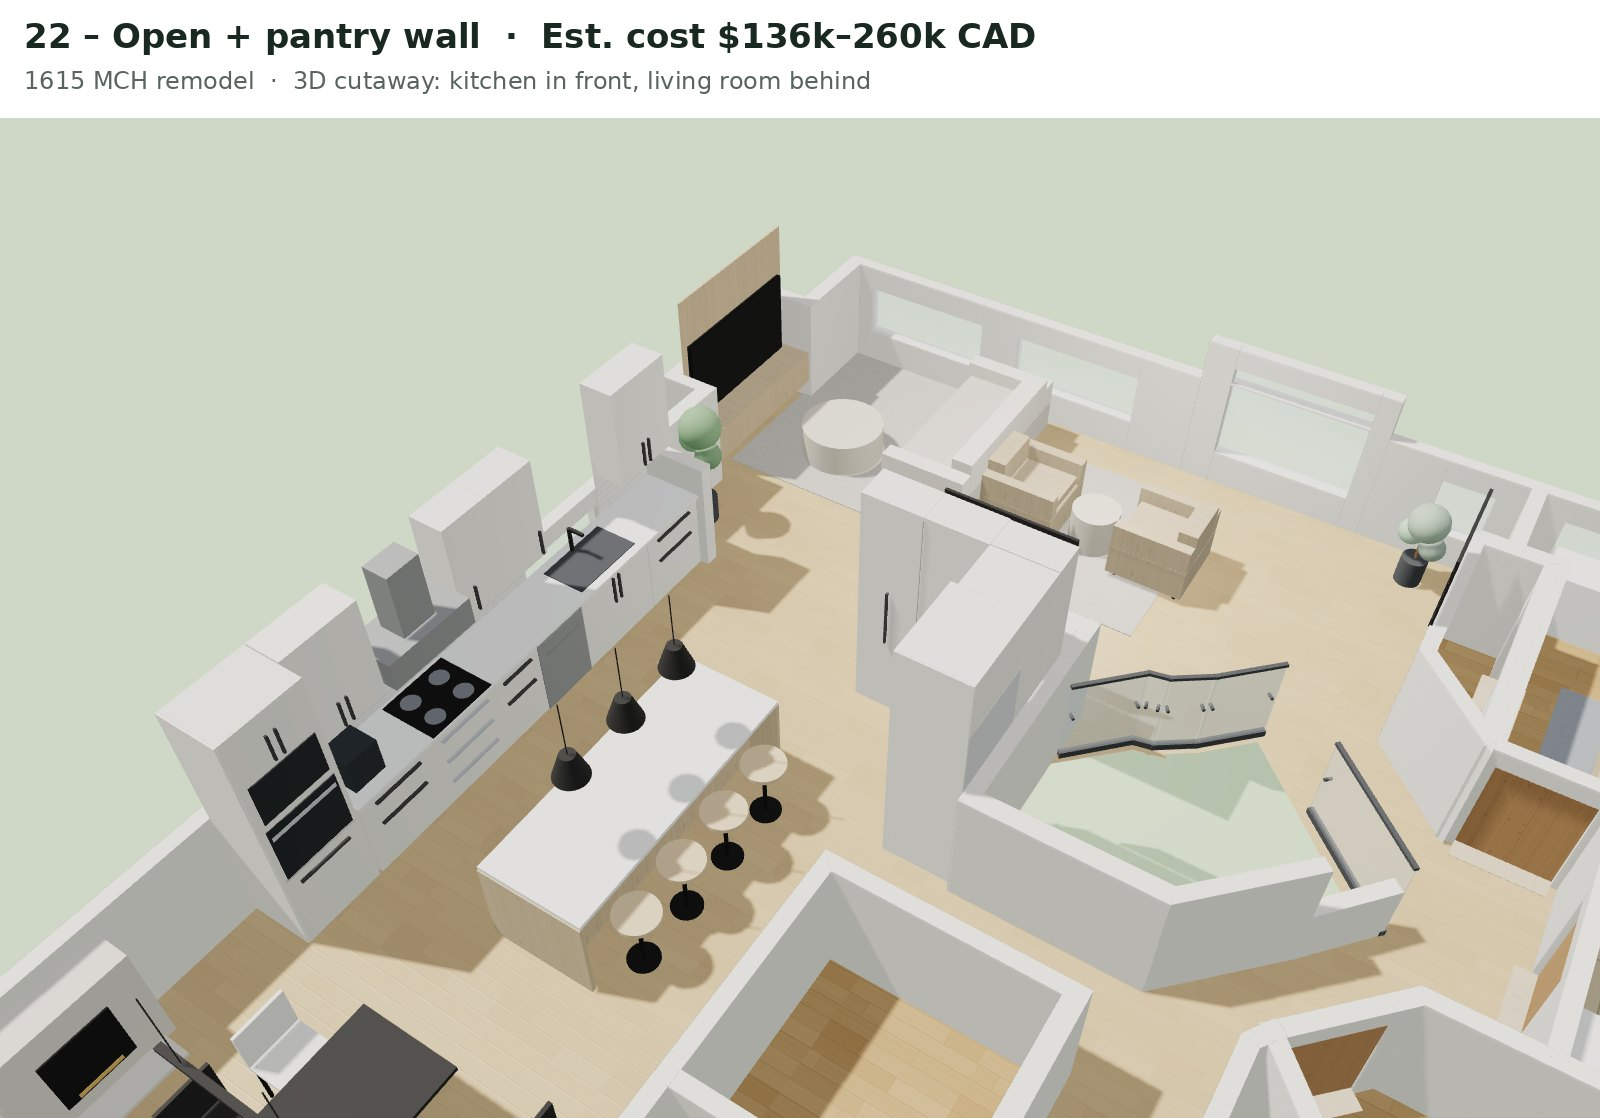
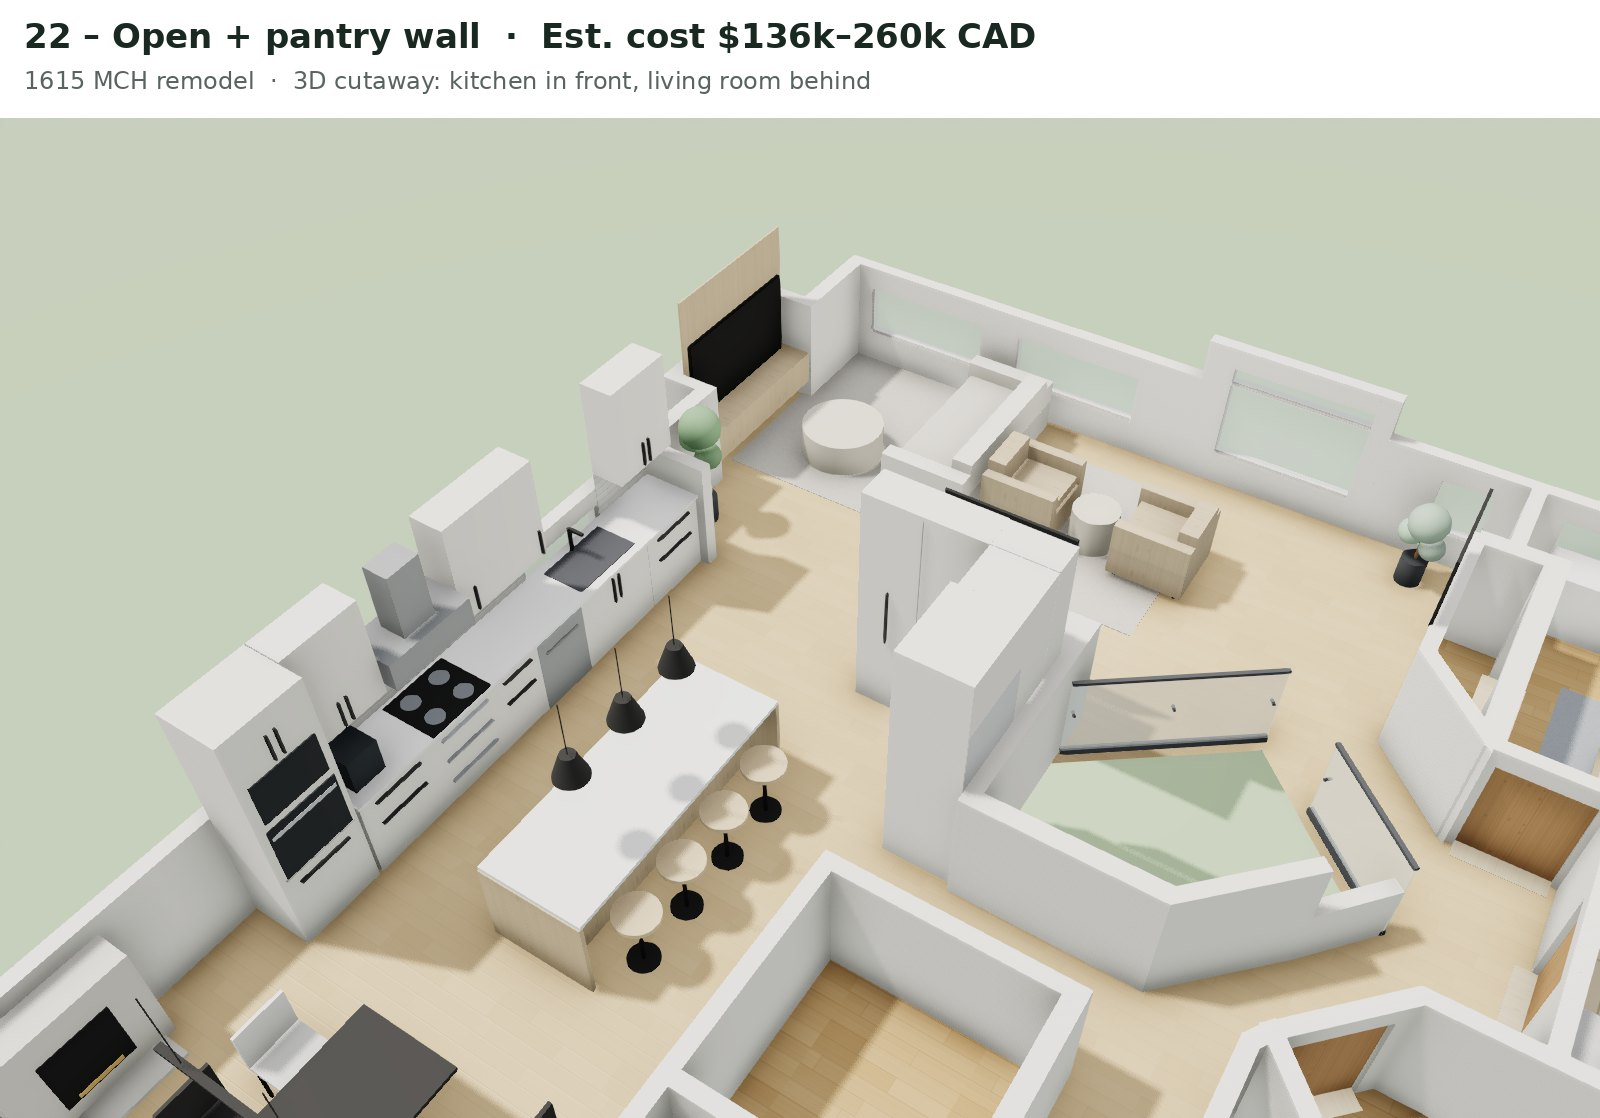
Concept 22: straighten stairwell edge and railing; white ceilings
Claude-Session: https://claude.ai/code/session_01FZodxpykm6DXmAniNRJHHf

diff --git a/js/data/concepts/v26.js b/js/data/concepts/v26.js
@@ -1,4 +1,4 @@
-// 22 · Open plan + pantry wall
+// 22 · Open + pantry wall
 DATA["v26"] = {
   "blinds": [
     ["level-e7276441-09e6-40e5-b0fe-e49e557499fc", 108.4, 222.3, 111.8, 3.1416, 10.8, 209.9],
@@ -491,11 +491,11 @@ DATA["v26"] = {
     ["level-e7276441-09e6-40e5-b0fe-e49e557499fc", [[13.8, 713.1], [13.8, 950.2], [215.9, 950.2], [215.9, 713.1]], 4.8, 115, 832, "Closet / Bathroom", []],
     ["level-e7276441-09e6-40e5-b0fe-e49e557499fc", [[13.8, 970.6], [13.8, 1296.1], [355.1, 1296.1], [355.1, 1210.4], [315.4, 1210.4], [315.4, 970.6]], 10.2, 170, 1137, "Bedroom", []],
     ["level-e7276441-09e6-40e5-b0fe-e49e557499fc", [[336.9, 980.7], [336.9, 1190.7], [387.8, 1190.7], [387.8, 1034.3]], 0.9, 361, 1098, "", []],
-    ["level-e7276441-09e6-40e5-b0fe-e49e557499fc", [[860.7, 910.8], [801.7, 968.6], [801.7, 992.9], [625.7, 992.9], [625.7, 968.5], [570.1, 912.5], [538.2, 935.1], [492.9, 980.5], [485.2, 972.8], [402.4, 1031.5], [402.4, 1210.4], [369.9, 1210.4], [369.9, 1296.1], [1115.0, 1296.1], [1115.0, 1190.7], [1157.6, 1190.7], [1157.6, 1012.7], [1115.0, 1012.7], [1115.0, 908.1]], 25.7, 781, 1122, "Living Room / Dining Room [oak]", []],
+    ["level-e7276441-09e6-40e5-b0fe-e49e557499fc", [[860.7, 910.8], [801.7, 968.6], [801.7, 992.9], [625.7, 992.9], [625.7, 968.5], [570, 908.8], [485.2, 972.8], [402.4, 1031.5], [402.4, 1210.4], [369.9, 1210.4], [369.9, 1296.1], [1115.0, 1296.1], [1115.0, 1190.7], [1157.6, 1190.7], [1157.6, 1012.7], [1115.0, 1012.7], [1115.0, 908.1]], 25.7, 781, 1122, "Living Room / Dining Room [oak]", []],
     ["level-e7276441-09e6-40e5-b0fe-e49e557499fc", [[337.5, 394.0], [337.5, 550.6], [391.5, 609.1], [391.5, 394.0]], 1.0, 366, 488, "Closet", []],
     ["level-e7276441-09e6-40e5-b0fe-e49e557499fc", [[403.4, 394.0], [499.4, 394.0], [500.0, 589.8], [646.6, 592.1], [646.2, 681.9], [479.2, 681.9], [343.1, 826.7], [485, 973], [402, 1032], [327.8, 951.3], [230.8, 950.2], [230.8, 713.1], [312.3, 713.1], [391.0, 634.4], [403.4, 613.3]], 9.3, 405, 717, "[oak]", []],
     ["level-e7276441-09e6-40e5-b0fe-e49e557499fc", [[706.0, -363.5], [1098.5, -363.5], [1098.5, -4.7], [708.1, -4.7]], 14.0, 903, -184, "", []],
-    ["level-e7276441-09e6-40e5-b0fe-e49e557499fc", [[588, 908], [570, 912], [626, 968], [626, 994], [802, 994], [802, 969], [862, 911], [843, 906], [639, 908], [636, 859]], 2.0, 710, 943, "[oak]", []],
+    ["level-e7276441-09e6-40e5-b0fe-e49e557499fc", [[570, 908.8], [626, 968], [626, 994], [802, 994], [802, 969], [862, 911], [843, 906], [639, 908], [636, 859]], 2.0, 710, 943, "[oak]", []],
     ["level-05858acb-0b22-4364-9c6b-23988ea317da", [[204, 829], [320, 829], [316, 841], [201, 841]], 0.1, 260, 835, "", []]
   ],
   "furn": [
@@ -578,13 +578,10 @@ DATA["v26"] = {
     ["level-05858acb-0b22-4364-9c6b-23988ea317da", 519.8, 885.3, 96.5, 172.7, 3.927, 134.6, 121.2, 3, "Staircase", -1],
     ["level-05858acb-0b22-4364-9c6b-23988ea317da", 526.4, -52.5, 132.1, 355.6, 1.5708, 0.0, 255.8, 3, "Straight staircase", -1],
     ["level-e7276441-09e6-40e5-b0fe-e49e557499fc", 384.0, 874.0, 125.6, 6.3, 0.7854, 0.0, 91.4, 0, "Rounded edges railing", 0],
-    ["level-e7276441-09e6-40e5-b0fe-e49e557499fc", 515.5, 957.5, 67.6, 6.3, -0.7854, 0.0, 91.4, 0, "Rounded edges railing", 0],
-    ["level-e7276441-09e6-40e5-b0fe-e49e557499fc", 554.0, 923.5, 43.4, 6.3, -0.6232, 0.0, 91.4, 0, "Rounded edges railing", 0],
-    ["level-e7276441-09e6-40e5-b0fe-e49e557499fc", 579.0, 910.0, 22.4, 6.3, -0.2187, 0.0, 91.4, 0, "Rounded edges railing", 0],
-    ["level-e7276441-09e6-40e5-b0fe-e49e557499fc", 612.0, 883.5, 72.6, 6.3, -0.7957, 0.0, 91.4, 0, "Rounded edges railing", 0],
     ["level-e7276441-09e6-40e5-b0fe-e49e557499fc", 1104.0, 200.9, 115.3, 35.2, 1.5761, 0.0, 105.1, 0, "Fireplace", 0],
     ["level-05858acb-0b22-4364-9c6b-23988ea317da", 454.2, 954.1, 76, 4, 0.9893, 0.0, 203.2, 2, "Door"],
-    ["level-e7276441-09e6-40e5-b0fe-e49e557499fc", 916.2, 9.6, 305, 4, 0.0027, 10.8, 209.9, 1, "Patio door (10 ft slider)"]
+    ["level-e7276441-09e6-40e5-b0fe-e49e557499fc", 916.2, 9.6, 305, 4, 0.0027, 10.8, 209.9, 1, "Patio door (10 ft slider)"],
+    ["level-e7276441-09e6-40e5-b0fe-e49e557499fc", 562.5, 918.5, 188.9, 6.3, -0.6465, 0.0, 91.4, 0, "Rounded edges railing", 0]
   ],
   "fireStone": 13617340,
   "wallColor": 15854818,

diff --git a/index.html b/index.html
@@ -281,7 +281,7 @@
     <script type="app" src="js/data/concepts/v23.js?v=700601ac"></script>
     <script type="app" src="js/data/concepts/v24.js?v=2784fae4"></script>
     <script type="app" src="js/data/concepts/v25.js?v=e27782e1"></script>
-    <script type="app" src="js/data/concepts/v26.js?v=892fbd76"></script>
+    <script type="app" src="js/data/concepts/v26.js?v=edb5d5dd"></script>
     <script type="app" src="js/data/shell.js?v=3ddc08fb"></script>
     <script type="app" src="js/core/scene.js?v=09d6b13e"></script>
     <script type="app" src="js/model/geometry.js?v=58035a67"></script>
@@ -292,9 +292,9 @@
     <script type="app" src="js/view/camera.js?v=5f61131e"></script>
     <script type="app" src="js/ui/saved-views.js?v=8696686b"></script>
     <script type="app" src="js/ui/misc.js?v=1c65438e"></script>
-    <script type="app" src="js/walk/walk.js?v=7fa7109e"></script>
+    <script type="app" src="js/walk/walk.js?v=fcc328a9"></script>
     <script type="app" src="js/ask/ask-claude.js?v=0732ee89"></script>
-    <script type="app" src="js/render/realistic.js?v=55fa6883"></script>
+    <script type="app" src="js/render/realistic.js?v=0a0ee8bf"></script>
     <script type="app" src="js/render/hq.js?v=0fa247cb"></script>
     <script type="app" src="js/ui/variants.js?v=7d70a769"></script>
     <script type="app" src="js/ui/cabinets.js?v=0f7f99b5"></script>

diff --git a/js/walk/walk.js b/js/walk/walk.js
@@ -136,7 +136,8 @@ function prepWalk() {
     m.geometry.dispose();
   });
   W.ceil = [];
-  const cm = new THREE.MeshLambertMaterial({ color: 0xf4f2ee, side: 2 });
+  // ceilings are lit only from below, so they glow a little to read as white paint
+  const cm = new THREE.MeshLambertMaterial({ color: 0xffffff, emissive: 0xffffff, emissiveIntensity: 0.55, side: 2 });
   D.rooms.forEach((r) => {
     if (nm0(D, r[0]) != "Level 1" || r[4] < 0) return;
     const sh = new THREE.Shape(r[1].map((p) => new THREE.Vector2(p[0], p[1])));

diff --git a/js/render/realistic.js b/js/render/realistic.js
@@ -475,8 +475,8 @@ function realRefresh() {
   W.ceil.forEach((m) => {
     m.castShadow = true;
     if (m.material.emissive) {
-      m.material.emissive.setHex(0xf4f2ee);
-      m.material.emissiveIntensity = 0.5;
+      m.material.emissive.setHex(0xffffff); // white paint, lit from below
+      m.material.emissiveIntensity = 1.0;
     }
   });
 }
